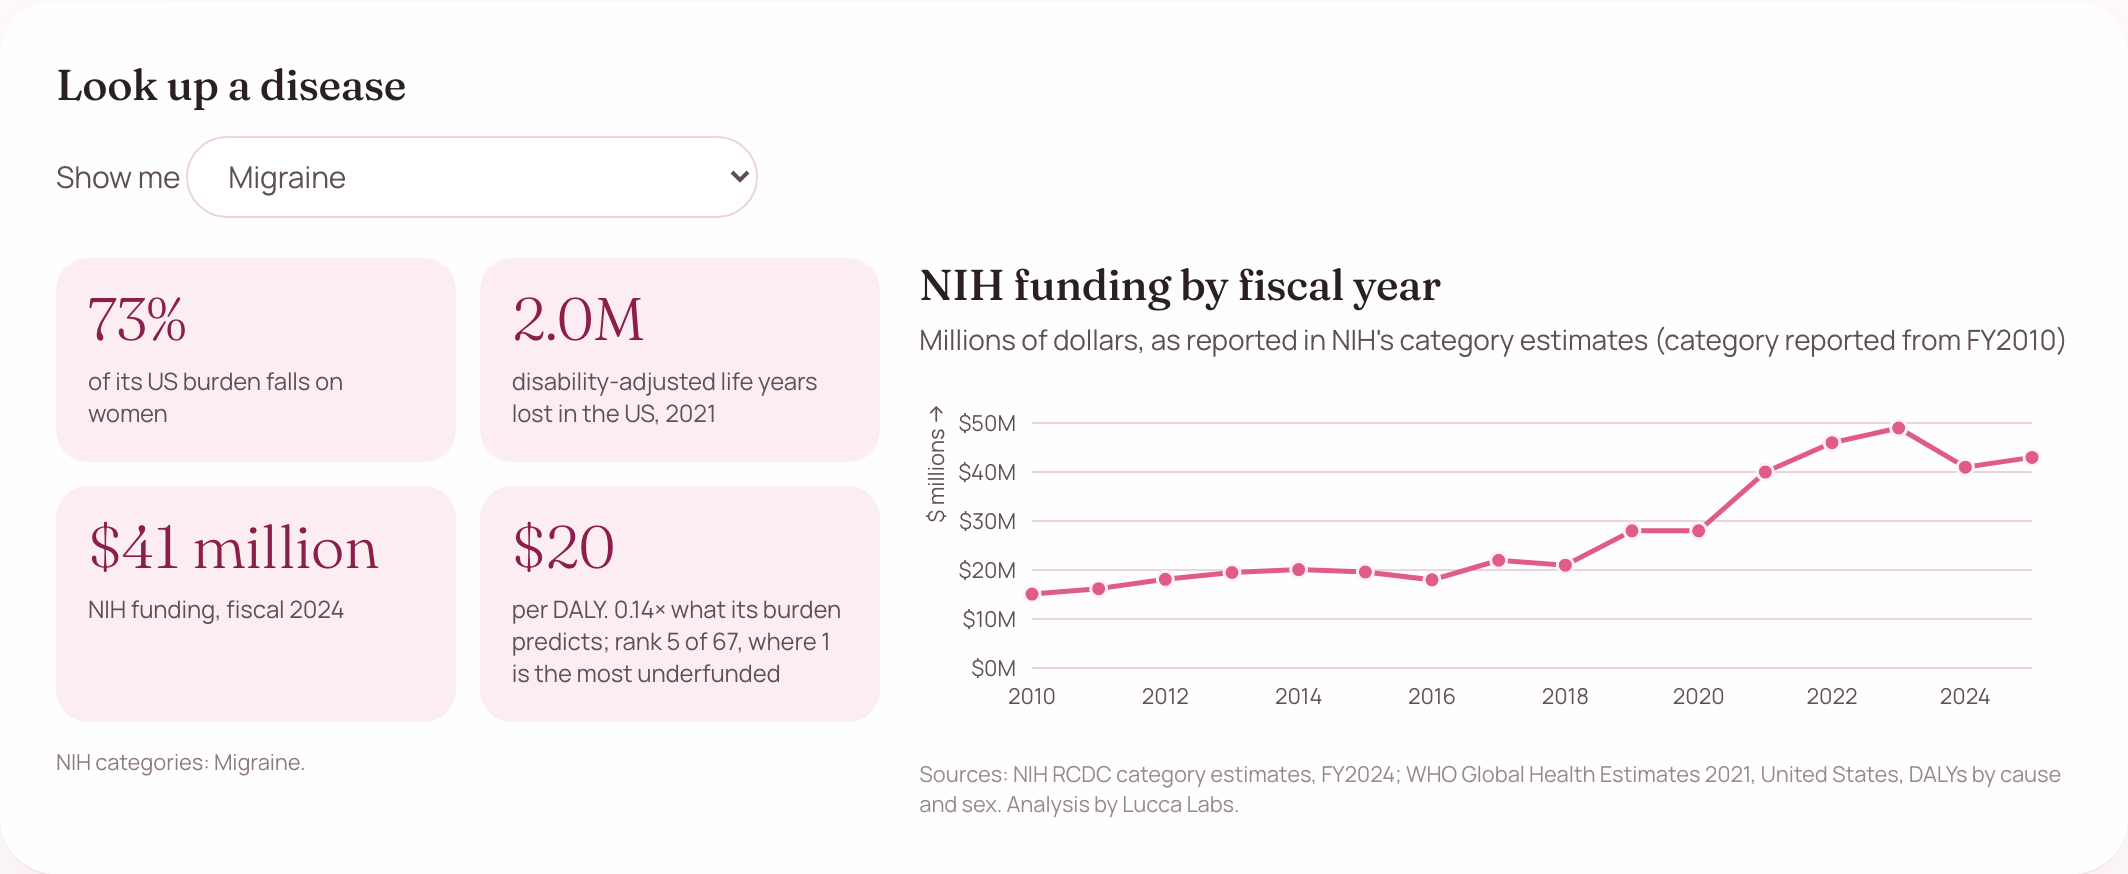
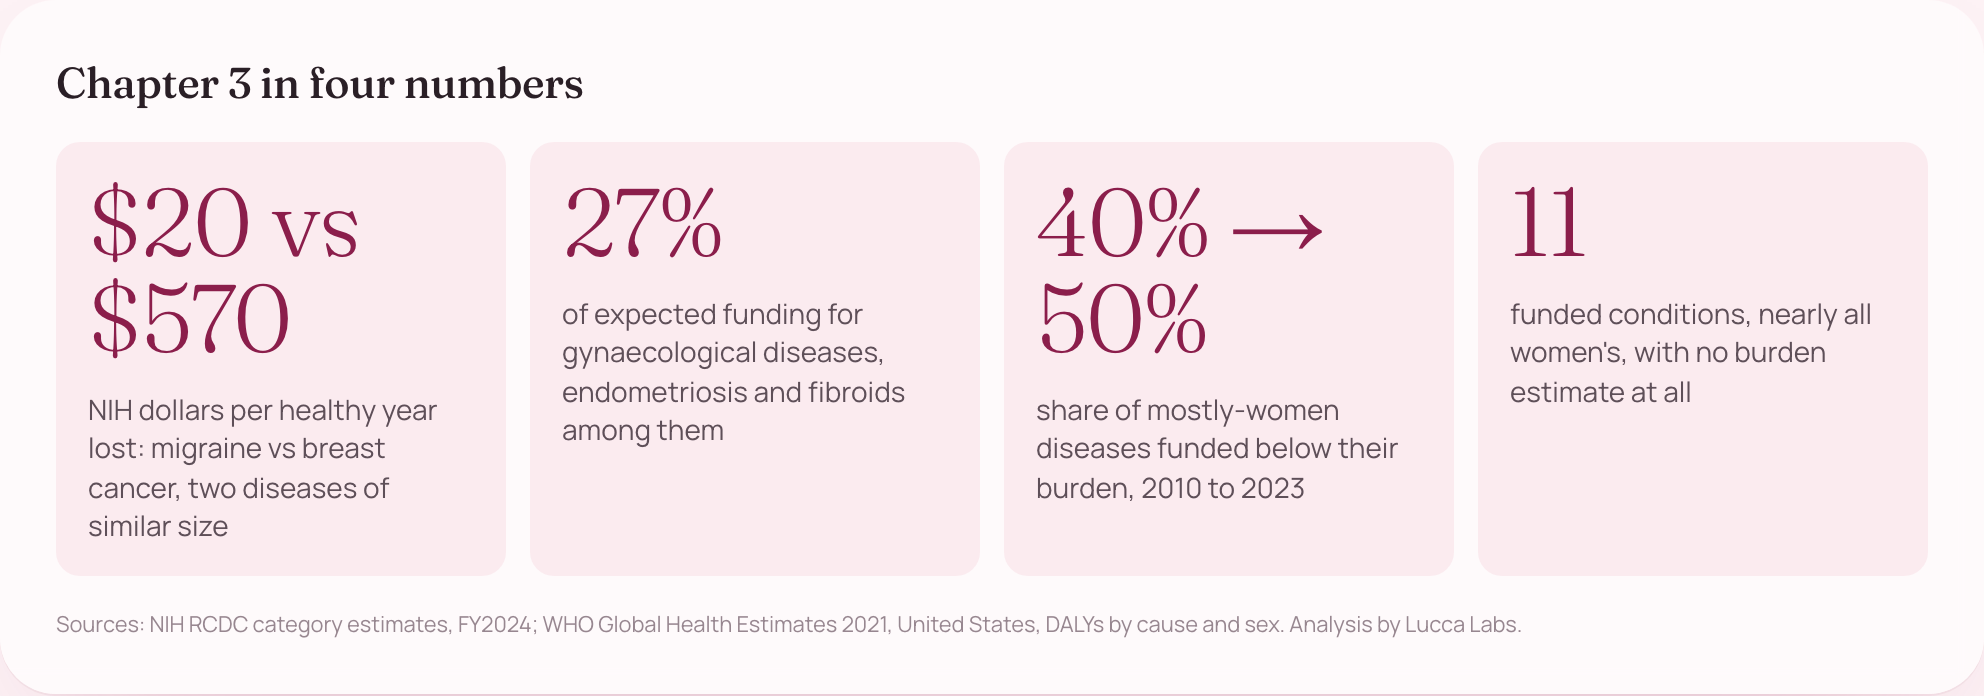
Closing panels: the four findings that matter in each chapter

diff --git a/site/src/chapters/Chapter1.tsx b/site/src/chapters/Chapter1.tsx
@@ -103,10 +103,10 @@ export default function Chapter1() {
       <p>Every number on this page is reproducible from public FDA data with the code in our repository. The <Link to="/methods">methods page</Link> explains each step, including the choices we made and what would change them.</p>
     </>),
     F('summary', <Summary title="Chapter 1 in four numbers" source={faersSrc} items={[
-      { value: String(s.n_drugs), label: `new drugs with a published trial snapshot, ${s.years[0]}–${s.years[1]}` },
-      { value: `${s.median_trial_female_pct.toFixed(0)}%`, label: 'women in the median pivotal trial' },
-      { value: String(s.n_under_30), label: 'drugs approved on trials under 30% women' },
-      { value: String(quadrant.length), label: 'drugs in the Ambien corner' },
+      { women: `${data.pk[0].female}%`, men: `${data.pk[0].male}%`, label: 'still impaired eight hours after a standard 10 mg dose of zolpidem, the finding that halved the dose for women' },
+      { value: `${s.n_under_30} of ${s.n_drugs}`, label: 'new drugs since 2015 approved on trials where fewer than 30% of participants were women' },
+      { value: String(quadrant.length), label: 'drugs in the Ambien corner: under half women in the trial, women over-represented in harm reports' },
+      { value: `${(data.drugs.find(d => d.brand === 'Ozempic')?.rate_ratio ?? 1.7).toFixed(1)}×`, label: `adverse-event reports per user from women vs men on Ozempic, once prescription share is accounted for; zolpidem itself is ${data.zolpidem_meps ? data.zolpidem_meps.rate_ratio.toFixed(1) : '1.0'}×` },
     ]} />, 'flow'),
     T('for-you', <>
       <p className="display text-2xl sm:text-[2rem] font-medium leading-snug mb-5 text-ink">What this means for you.</p>

diff --git a/site/src/chapters/Chapter3.tsx b/site/src/chapters/Chapter3.tsx
@@ -102,9 +102,9 @@ export default function Chapter3() {
       <p>And if your condition is one of the uncounted, the first ask is not money. It is a burden estimate. A condition without one cannot be shown to be underfunded, and so it never is.</p>
     </>),
     F('summary', <Summary title="Chapter 3 in four numbers" source={src} items={[
-      { value: String(S.n), label: `diseases with both an NIH budget and a measured US burden` },
-      { value: `$${mig.dollars_per_daly.toFixed(0)}`, label: `per healthy year lost to migraine, against $${bre.dollars_per_daly.toFixed(0)} for breast cancer at the same burden` },
-      { value: money(S.female_shortfall_m), label: 'a year to bring every mostly-women disease up to the funding line' },
+      { value: `$${mig.dollars_per_daly.toFixed(0)} vs $${bre.dollars_per_daly.toFixed(0)}`, label: 'NIH dollars per healthy year lost: migraine vs breast cancer, two diseases of similar size' },
+      { value: `${Math.round(gyn.ratio_to_expected * 100)}%`, label: 'of expected funding for gynaecological diseases, endometriosis and fibroids among them' },
+      { value: `${data.trend[0].share_underfunded.female}% → ${data.trend[data.trend.length - 1].share_underfunded.female}%`, label: `share of mostly-women diseases funded below their burden, ${data.trend[0].year} to ${data.trend[data.trend.length - 1].year}` },
       { value: String(data.uncounted.length), label: 'funded conditions, nearly all women\'s, with no burden estimate at all' },
     ]} />, 'flow', false),
   ]

diff --git a/site/src/chapters/Chapter2.tsx b/site/src/chapters/Chapter2.tsx
@@ -152,10 +152,10 @@ export default function Chapter2() {
       <p>None of this is medical advice. Bring the numbers to your doctor, not a conclusion.</p>
     </>),
     F('summary', <Summary title="Chapter 2 in four numbers" source={src} items={[
-      { women: `${p(A.severe_share, 'women')}%`, men: `${p(A.severe_share, 'men')}%`, label: 'arrived with pain rated 7 to 10' },
+      { women: `${p(H.cardenz, 'women')}%`, men: `${p(H.cardenz, 'men')}%`, label: 'had cardiac enzymes ordered during a heart attack' },
+      { women: `${p(L.mi_urgent_by_complaint.other_complaint, 'women')}%`, men: `${p(L.mi_urgent_by_complaint.other_complaint, 'men')}%`, label: 'triaged urgent during a heart attack that was not described as chest pain' },
       { women: `${p(chestByAge('urgent')[0].cmp, 'women')}%`, men: `${p(chestByAge('urgent')[0].cmp, 'men')}%`, label: 'under-45s with chest pain triaged urgent' },
       { women: `${p(abd.opioid_ed_severe, 'women')}%`, men: `${p(abd.opioid_ed_severe, 'men')}%`, label: 'given an opioid for severe abdominal pain' },
-      { women: `${p(H.cardenz, 'women')}%`, men: `${p(H.cardenz, 'men')}%`, label: 'had cardiac enzymes ordered during a heart attack' },
     ]} />, 'flow', false),
   ]
 
